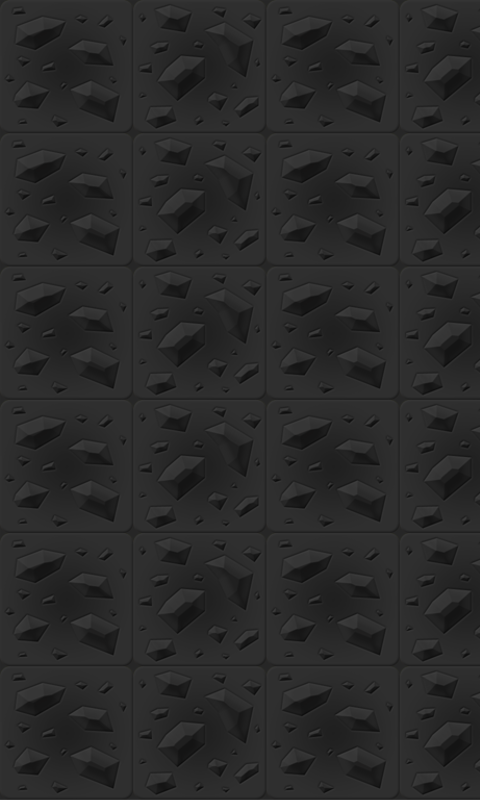
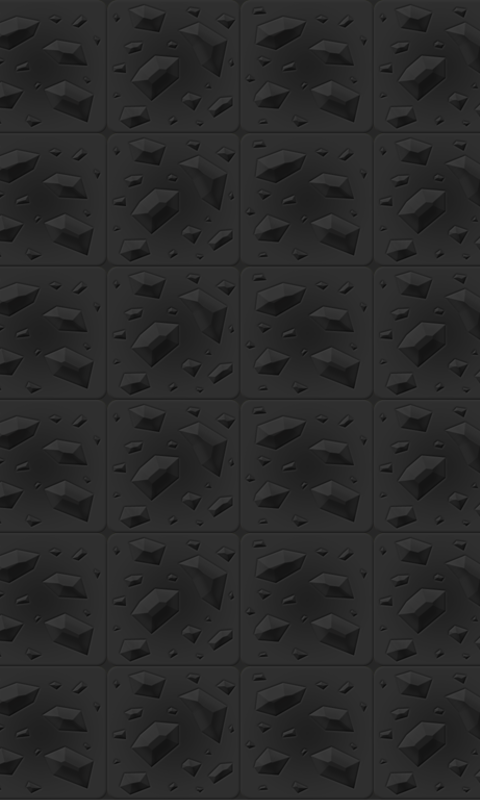
changed menu screen texture

diff --git a/core/src/com/tipqc/trickytower/MenuScreen.java b/core/src/com/tipqc/trickytower/MenuScreen.java
@@ -23,7 +23,7 @@ public class MenuScreen implements Screen {
 
     @Override
     public void show() {
-        background = new Texture("bg.png");
+        background = new Texture("menubg.png");
         sb = new SpriteBatch();
     }
 
